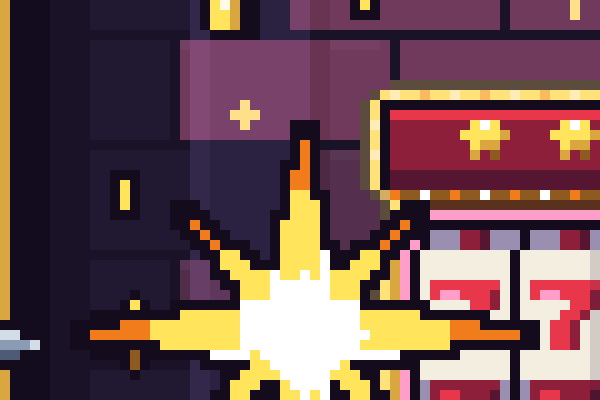
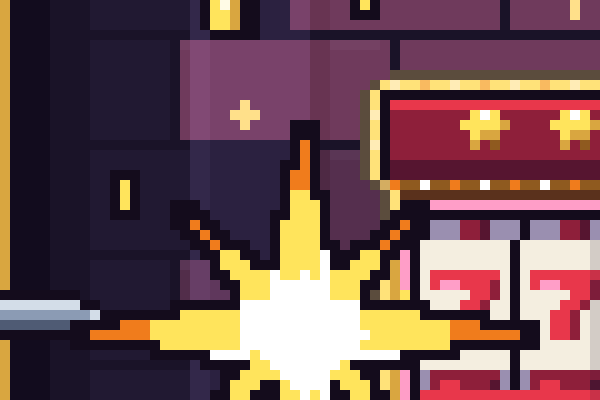
Capsule v3: A's volley staggered and the gold machine hops, B's crowd behind the banks, C's blow; renders refreshed
Claude-Session: https://claude.ai/code/session_013JAoFjrCifqJMgxmdrHS8s

diff --git a/art/capsule/v3/a.js b/art/capsule/v3/a.js
@@ -21,7 +21,7 @@ function fight(s, o) {
   const house = K.lean(K.lit(o.crownOff ? K.houseCabinet() : K.houseCrowned(), { side: -1 }), 4);
   const KX = o.knightX - 3;
   const HX = o.houseX - 4;
-  const HLIFT = 2;
+  const HLIFT = o.lift ?? 3;
   for (const [sp, x, lift] of [[knight, KX, 0], [house, HX, HLIFT]]) {
     K.reflect(g, sp, x, FOOT + 1 + lift, { depth: Math.min(16, H - FOOT - 1), alpha: 0.5, skip: 1 });
     K.shadow(g, x + sp.width / 2, FOOT, 25, 2, 0.9);
@@ -41,14 +41,15 @@ function fight(s, o) {
   const sw = K.swordSprite();
   const SY = FOOT - 37;
   const hitX = o.houseX + 2;
-  for (const [x, dy] of o.swords) {
-    K.streak(g, x - 1, SY + dy + 4, 30, 1, C.Yl);
-    K.streak(g, x - 1, SY + dy + 2, 18, 1, C.W);
-    K.streak(g, x - 1, SY + dy + 6, 18, 1, C.G);
+  for (const [x, dy, len = 30] of o.swords) {
+    K.streak(g, x - 1, SY + dy + 4, len, 1, C.Yl);
+    K.streak(g, x - 1, SY + dy + 2, len * 0.6, 1, C.W);
+    K.streak(g, x - 1, SY + dy + 6, len * 0.6, 1, C.G);
     g.drawImage(sw, x, SY + dy);
   }
-  g.drawImage(sw, 0, 0, 15, 9, hitX - 26, SY, 15, 9);
   K.burst(g, hitX - 4, SY + 4, o.burst ?? 22);
+  // it jumps with the hit
+  for (const dx of [12, 24, 37]) px(g, HX + dx, FOOT - HLIFT + 2, 1, HLIFT, C.Yl);
   // coins knocked loose, up and away from the hit
   for (const [dx, dy, e] of o.coins) K.miniCoin(g, hitX + dx, SY + dy, !!e);
   for (const [dx, dy] of o.glints ?? []) K.glint(g, hitX + dx, SY + dy, 1, C.Yl);
@@ -57,7 +58,7 @@ function fight(s, o) {
 export async function main() {
   K.reseed(11);
   const s = doorScene({ W: 247, H: 142, X0: 197, Y0: 20, logoY: 2 });
-  fight(s, { foot: 128, knightX: 6, houseX: 192, swords: [[62, -2], [140, 1]], crownOff: true,
+  fight(s, { foot: 128, knightX: 6, houseX: 192, swords: [[60, 2], [84, -7, 18], [146, -2, 12]], crownOff: true,
     coins: [[16, -40, 0], [34, -50, 1], [-12, -28, 0], [2, -30, 1], [-22, -10, 1], [46, -58, 0], [-18, -44, 0], [40, -22, 1]], glints: [[-30, 22], [-10, -18], [22, 26]] });
   rain(s);
   return { canvas: s.art, px: 5, detail: [160, 62] };
@@ -69,6 +70,6 @@ export async function small() {
   const s = doorScene({ W: 231, H: 87, X0: 204, Y0: 66, logoY: 1, reach: 0.8 });
   // the steps under the sign, lit: the hit reads against them
   for (const [i, y] of [s.STEP, s.STEP + 6, s.STEP + 12].entries()) K.addRows(s.g, y, Array(6).fill([s.CX - 38 - i * 6, s.CX + 38 + i * 6]), '#2a180c');
-  fight(s, { foot: 82, knightX: 1, houseX: 183, swords: [[58, 0], [104, 2]], doorman: false, burst: 16, coins: [[12, -22, 0], [-14, -12, 1], [-22, 14, 0], [-6, 20, 1]] });
+  fight(s, { foot: 82, knightX: 1, houseX: 183, swords: [[56, 1], [112, -1]], doorman: false, burst: 16, lift: 2, coins: [[12, -22, 0], [-14, -12, 1], [-22, 14, 0], [-6, 20, 1]] });
   return { canvas: s.art, px: 2 };
 }

diff --git a/art/capsule/v3/b.js b/art/capsule/v3/b.js
@@ -236,7 +236,7 @@ export async function main() {
       [-395, Z_HERO * 1.86, L(0), 'standR'], [-560, Z_HERO * 1.9, L(3), 'stand'], [-760, Z_HERO * 1.84, WAITER, 'tray'], [-250, Z_HERO * 1.92, L(4), 'standR'],
       [270, Z_HERO * 1.9, PITBOSS, 'standL'], [430, Z_HERO * 1.86, L(1), 'standL'], [600, Z_HERO * 1.92, L(2), 'stand'], [770, Z_HERO * 1.85, L(6), 'standL'],
     ],
-    seats: {}, veil: 0.16 };
+    seats: {}, veil: 0.1 };
   const s = floorScene(o);
   const { g, CX } = s;
   // the sign over the aisle, on its two rods from the ceiling
@@ -244,7 +244,7 @@ export async function main() {
   const LY = 2;
   for (const x of [LX + 30, LX + 128]) px(g, x, 0, 2, LY + 2, '#3b3347');
   K.marquee(g, LX, LY, 1);
-  duel(s, { FOOT: o.FOOT, knightX: 6, houseX: 192, swords: [[60, -2], [86, 2]], coins: [[146, 2, 1], [170, -3, 0]], burst: 23,
+  duel(s, { FOOT: o.FOOT, knightX: 6, houseX: 192, swords: [[57, -5], [90, 2]], coins: [[146, 3, 1], [171, -4, 0]], burst: 23,
     bits: [[-12, -24, 0], [10, -30, 1], [22, -18, 0], [-26, -12, 1], [4, 24, 0], [-18, 20, 1], [30, 14, 0]], glints: [[-34, -20], [36, -26], [-8, 30]] });
   return { canvas: s.art, px: 5, detail: [93, 66] };
 }

diff --git a/art/capsule/v3/door.js b/art/capsule/v3/door.js
@@ -130,7 +130,7 @@ export function rain(s, n = 26, seed = 21) {
   for (let i = 0; i < n; i++) {
     const x = Math.floor(rr() * W);
     const y = Math.floor(rr() * H);
-    if (x > LX - 4 && x < LX + 164 && y > LY + 40 && y < GROUND - 10) continue;
+    if (x > LX - 4 && x < LX + 164 && y > LY - 5 && y < GROUND - 10) continue;
     g.fillRect(x, y, 1, 4);
   }
   g.globalAlpha = 1;
